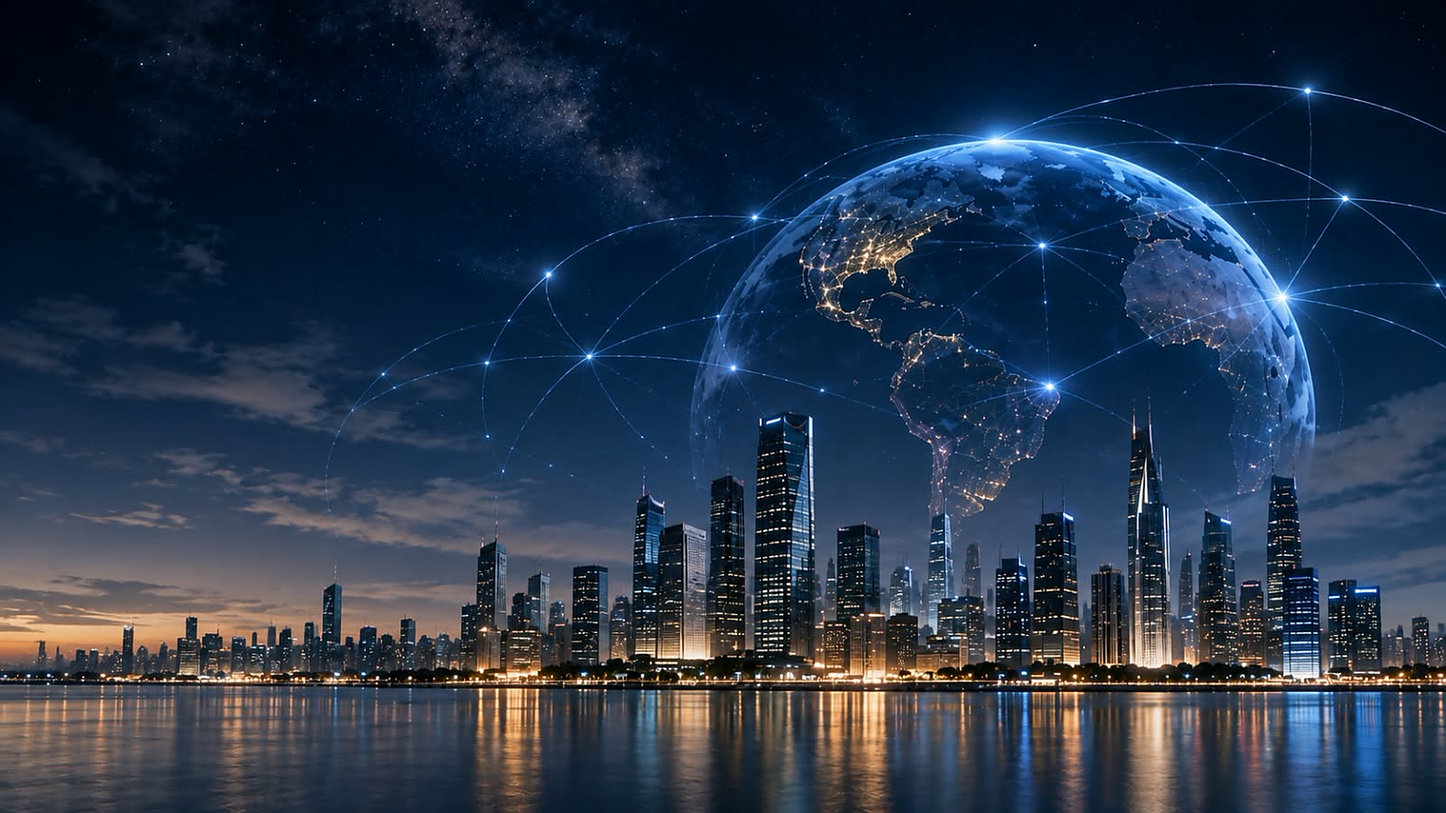
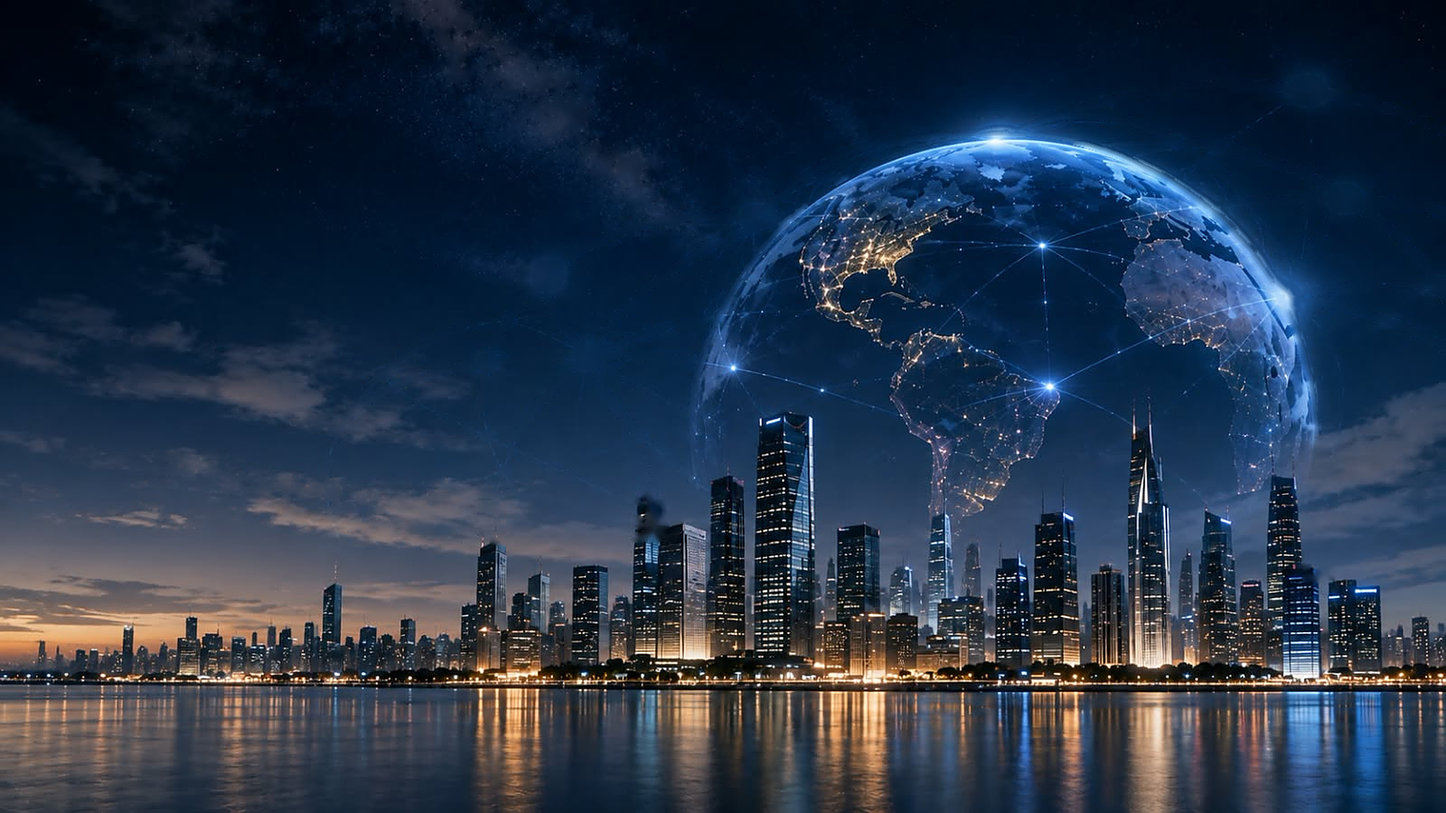
feat(agentic): remove blue network rays around the globe
- Paint the network lines and glowing nodes out of the sky in the background
  image (OpenCV inpainting outside the globe; stars, clouds and buildings kept)
- Remove the 3D network arcs and pulses; the globe keeps turning with its
  continents and city lights

diff --git a/src/three/scene.ts b/src/three/scene.ts
@@ -19,22 +19,6 @@ export function createScene(canvas: HTMLCanvasElement): () => void {
   const disposables: { dispose: () => void }[] = [];
   const track = <T extends { dispose: () => void }>(o: T) => { disposables.push(o); return o; };
 
-  const dotCanvas = document.createElement('canvas');
-  dotCanvas.width = dotCanvas.height = 64;
-  const g = dotCanvas.getContext('2d')!;
-  const grad = g.createRadialGradient(32, 32, 0, 32, 32, 32);
-  grad.addColorStop(0, 'rgba(255,255,255,1)');
-  grad.addColorStop(0.25, 'rgba(255,255,255,0.8)');
-  grad.addColorStop(1, 'rgba(255,255,255,0)');
-  g.fillStyle = grad;
-  g.fillRect(0, 0, 64, 64);
-  const dot = track(new THREE.CanvasTexture(dotCanvas));
-  const sprite = (color: number, size: number, opacity = 1) => {
-    const s = new THREE.Sprite(track(new THREE.SpriteMaterial({ map: dot, color, transparent: true, opacity, depthWrite: false, blending: THREE.AdditiveBlending })));
-    s.scale.set(size, size, 1);
-    return s;
-  };
-
   const R = GLOBE.r;
   const world = new THREE.Group();
   world.position.set(GLOBE.cx, -GLOBE.cy, 0);
@@ -67,31 +51,6 @@ export function createScene(canvas: HTMLCanvasElement): () => void {
   globe.add(new THREE.Mesh(track(new THREE.SphereGeometry(R * 1.004, 96, 96)),
     track(new THREE.MeshBasicMaterial({ map: lightsTex, color: 0xffd9a0, transparent: true, blending: THREE.AdditiveBlending, depthWrite: false }))));
 
-  // Network: glowing hubs linked by arcs, with light pulses travelling along them
-  const toVec = (lat: number, lon: number, r = R) => {
-    const phi = (90 - lat) * (Math.PI / 180);
-    const theta = (lon + 180) * (Math.PI / 180);
-    return new THREE.Vector3(-r * Math.sin(phi) * Math.cos(theta), r * Math.cos(phi), r * Math.sin(phi) * Math.sin(theta));
-  };
-  const hubs: [number, number][] = [
-    [40.7, -74], [30.3, -97.7], [37.8, -122.4], [51.5, -0.1], [48.9, 2.4], [52.5, 13.4], [25.2, 55.3],
-    [17.4, 78.5], [17.7, 83.2], [19.1, 72.9], [1.35, 103.8], [35.7, 139.7], [-33.9, 151.2], [-23.5, -46.6], [43.7, -79.4], [19.4, -99.1], [4.7, -74.1],
-  ];
-  const links: [number, number][] = [[0, 3], [1, 7], [2, 11], [3, 6], [6, 7], [7, 10], [8, 12], [4, 9], [0, 13], [14, 5], [10, 11], [1, 0], [9, 6], [3, 8], [2, 1], [15, 16], [16, 13], [1, 15], [14, 0]];
-  const arcMat = track(new THREE.LineBasicMaterial({ color: 0x9fd8ff, transparent: true, opacity: 0.6, blending: THREE.AdditiveBlending, depthWrite: false }));
-  const pulses: { curve: THREE.QuadraticBezierCurve3; s: THREE.Sprite; speed: number; offset: number }[] = [];
-  hubs.forEach(([la, lo]) => { const n = sprite(0xcdeeff, 20); n.position.copy(toVec(la, lo, R * 1.01)); globe.add(n); });
-  links.forEach(([a, b], i) => {
-    const p0 = toVec(...hubs[a], R * 1.01);
-    const p2 = toVec(...hubs[b], R * 1.01);
-    const lift = R * (1.12 + p0.distanceTo(p2) / (R * 5));
-    const curve = new THREE.QuadraticBezierCurve3(p0, p0.clone().add(p2).normalize().multiplyScalar(lift), p2);
-    globe.add(new THREE.Line(track(new THREE.BufferGeometry().setFromPoints(curve.getPoints(64))), arcMat));
-    const s = sprite(0xffffff, 16);
-    globe.add(s);
-    pulses.push({ curve, s, speed: 0.1 + (i % 5) * 0.025, offset: Math.random() });
-  });
-
   const resize = () => {
     renderer.setSize(canvas.clientWidth || window.innerWidth, canvas.clientHeight || window.innerHeight, false);
   };
@@ -105,7 +64,6 @@ export function createScene(canvas: HTMLCanvasElement): () => void {
   const frame = () => {
     const t = clock.getElapsedTime();
     globe.rotation.y = -1.25 + t * 0.06; // keeps turning, west to east
-    pulses.forEach(p => p.s.position.copy(p.curve.getPoint((t * p.speed + p.offset) % 1)));
     renderer.render(scene, camera);
   };
 

diff --git a/src/components/BackgroundFX.css b/src/components/BackgroundFX.css
@@ -90,7 +90,7 @@
 .bgfx-globe-img {
   position: absolute;
   inset: 0;
-  background: url('/images/agentic-bg.jpg?v=2') center / 100% 100% no-repeat;
+  background: url('/images/agentic-bg.jpg?v=3') center / 100% 100% no-repeat;
 }
 /* The image's buildings and water, cut along the skyline, drawn over the globe */
 .bgfx-fore {
